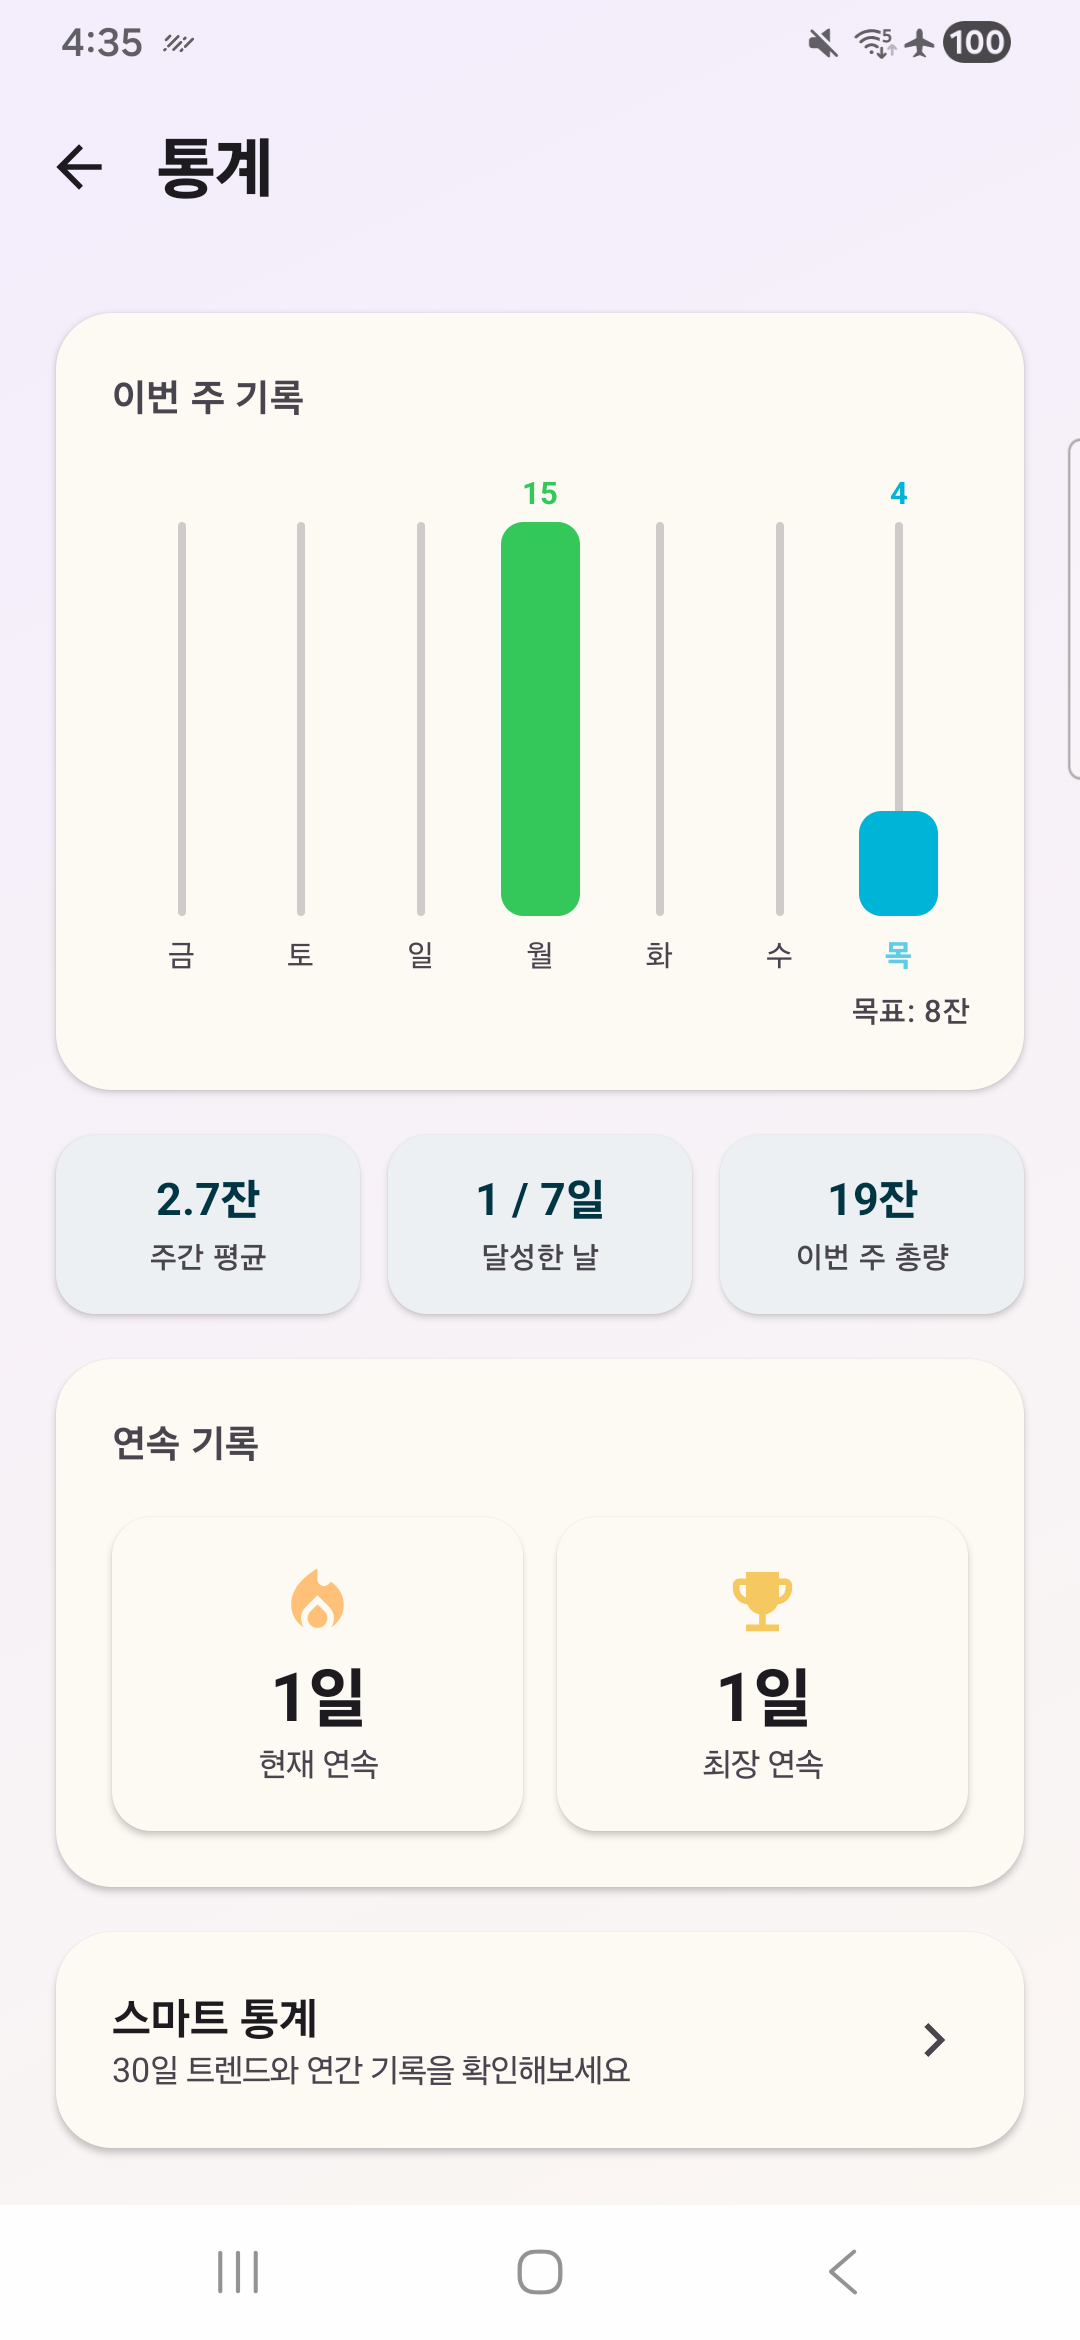
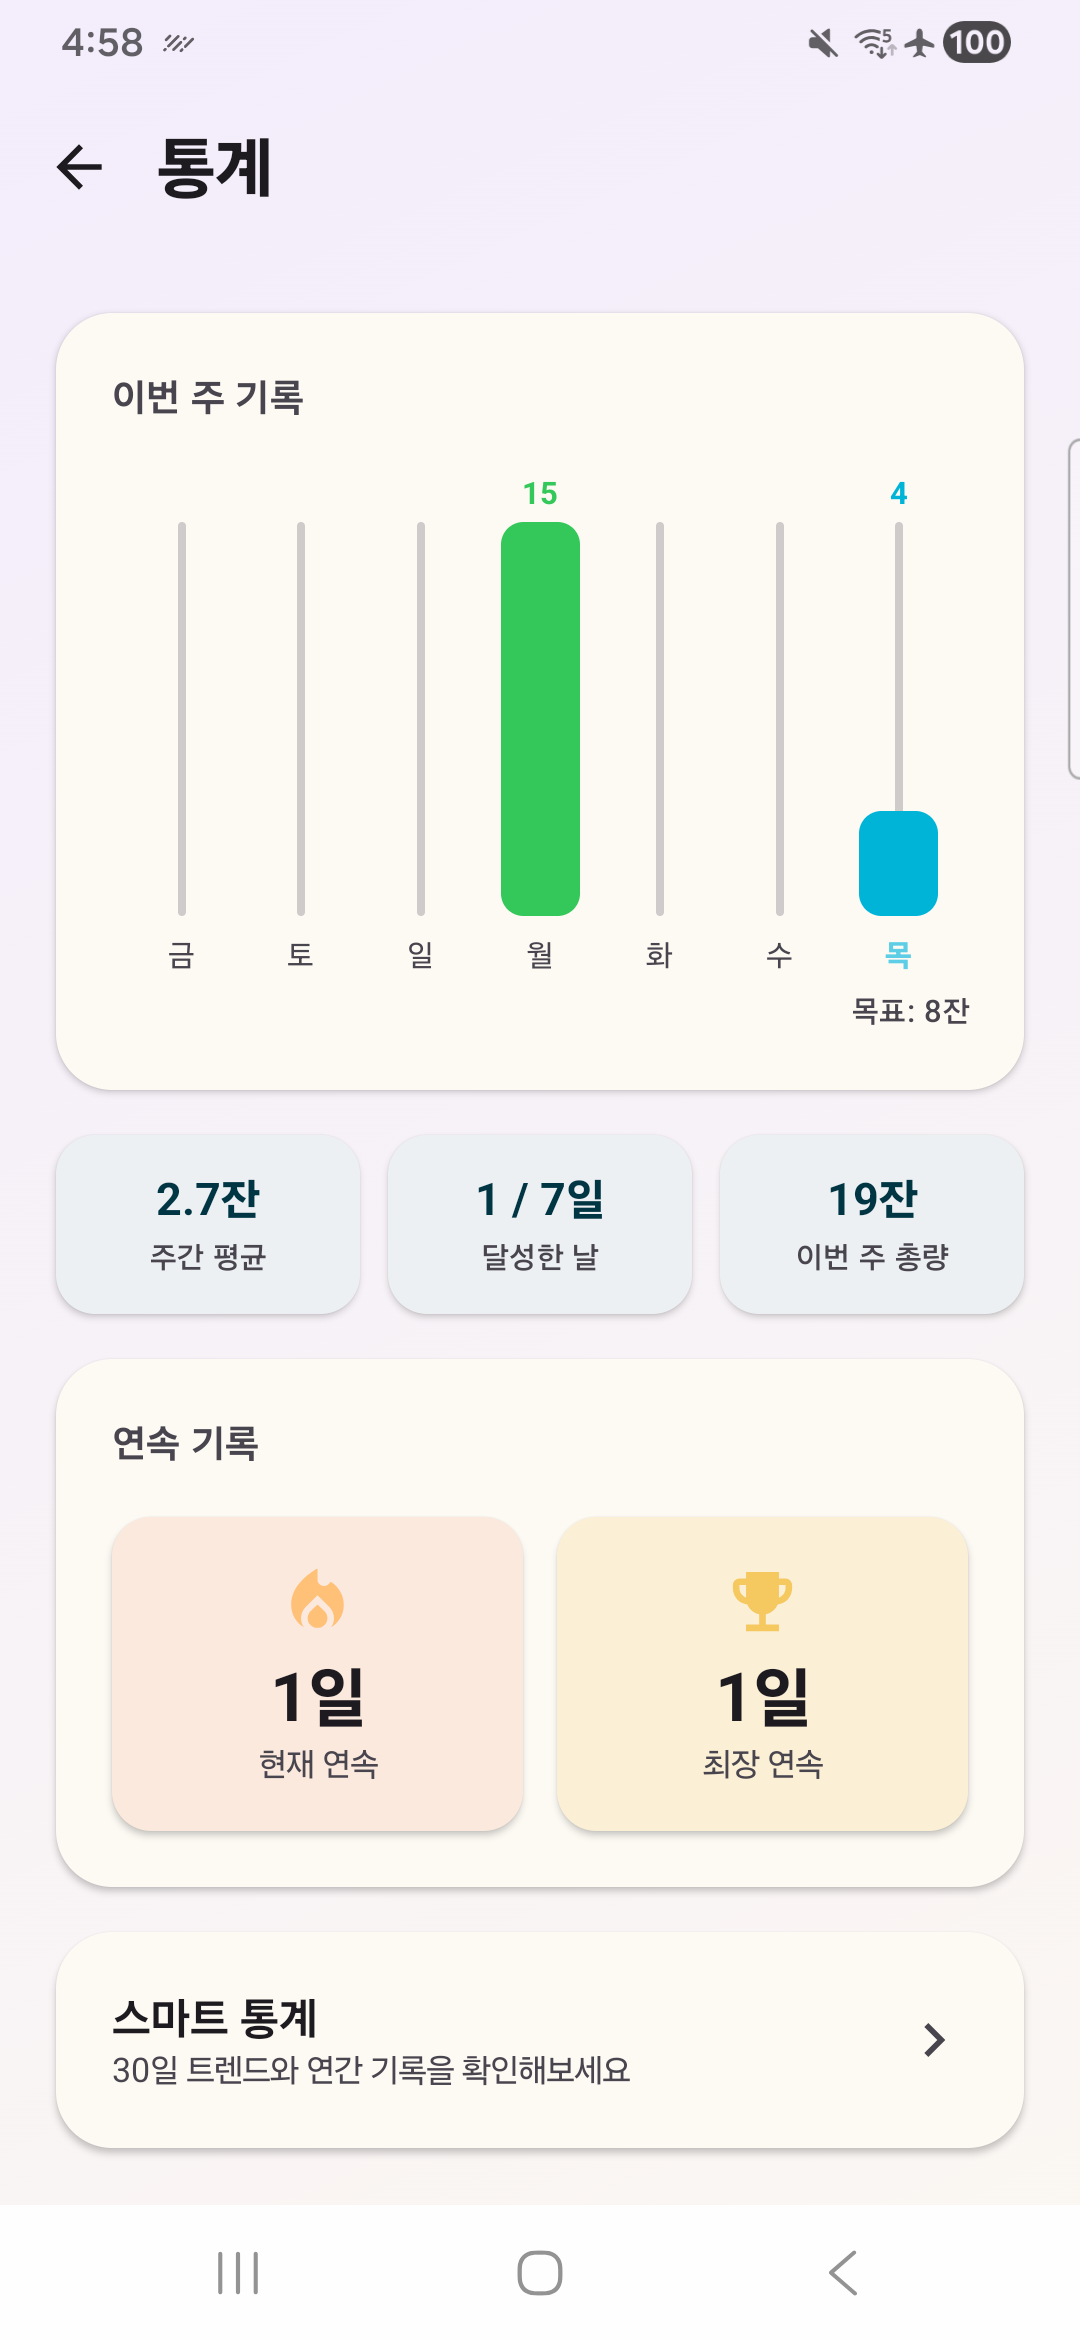
[fix] 통계 화면 연속 기록 카드 라이트모드 저대비 수정 (v0.31.50)
라이트모드에서도 바깥 카드와 안쪽 박스가 동일한 크림색이라
경계가 흐리던 문제. 현재 연속(살구빛)/최장 연속(골드빛)으로
카드별 배경을 분리, 다크모드 골드 보더 방식은 그대로 유지.
04_stats.png 스토어 스크린샷도 재촬영 반영

Changed region(s): [[0.4889, 0.6239, 0.9167, 0.7799], [0.0917, 0.0, 0.1222, 0.0312]]

diff --git a/app/src/main/java/com/watering/app/features/stats/StatsScreen.kt b/app/src/main/java/com/watering/app/features/stats/StatsScreen.kt
@@ -126,6 +126,7 @@ fun StatsScreen(
                             tint = MaterialTheme.colorScheme.tertiary,
                             label = stringResource(R.string.label_current_streak),
                             value = stringResource(R.string.streak_days_value, uiState.currentStreak),
+                            lightBackground = Color(0xFFFBE9DD),
                             modifier = Modifier.weight(1f)
                         )
                         StreakStatCard(
@@ -133,6 +134,7 @@ fun StatsScreen(
                             tint = MaterialTheme.colorScheme.secondary,
                             label = stringResource(R.string.label_longest_streak),
                             value = stringResource(R.string.streak_days_value, uiState.longestStreak),
+                            lightBackground = Color(0xFFFBF0D6),
                             modifier = Modifier.weight(1f)
                         )
                     }
@@ -264,14 +266,24 @@ private fun SummaryChip(label: String, value: String, modifier: Modifier = Modif
     }
 }
 
-// 다크모드에서 바깥 SectionCard와 배경색(AppCardBackgroundColor)이 동일해 경계가 안 보이던 문제 —
-// 배경은 그대로 두고 앱 정보 배너와 같은 골드 보더(AppInfoBannerBorderColor, 라이트모드는 투명이라
-// 자동으로 무보더 유지)로 구분(2026-07-09, 웹 목업 6안 비교 후 "골드 보더" 채택)
+// 바깥 SectionCard와 배경색(AppCardBackgroundColor)이 동일해 경계가 안 보이던 문제(2026-07-09).
+// 다크모드는 배경 유지 + 앱 정보 배너와 같은 골드 보더(AppInfoBannerBorderColor)로 구분(웹 목업
+// 6안 중 "골드 보더" 채택). 라이트모드는 보더 대신 카드별로 다른 파스텔 배경(lightBackground)을
+// 써서 구분 — 현재 연속(살구빛)/최장 연속(골드빛)이 서로도 구분되도록(웹 목업 6안 중 "아이콘
+// 컬러 매칭" 채택)
 @Composable
-private fun StreakStatCard(icon: ImageVector, tint: Color, label: String, value: String, modifier: Modifier = Modifier) {
+private fun StreakStatCard(
+    icon: ImageVector,
+    tint: Color,
+    label: String,
+    value: String,
+    lightBackground: Color,
+    modifier: Modifier = Modifier
+) {
+    val isDark = isSystemInDarkTheme()
     Surface(
         shape = RoundedCornerShape(14.dp),
-        color = AppCardBackgroundColor,
+        color = if (isDark) AppCardBackgroundColor else lightBackground,
         border = BorderStroke(1.5.dp, AppInfoBannerBorderColor),
         shadowElevation = 1.5.dp,
         modifier = modifier

diff --git a/docs/개발보고서.md b/docs/개발보고서.md
@@ -1,11 +1,24 @@
 # 워터링 Android 개발보고서
 
-> 마지막 업데이트: 2026-07-09 (스토어 스크린샷 5장 실기기 최신 디자인으로 재촬영 + 스토어 설명
-> 줄바꿈 정리). 출시 직전 체크리스트 릴리즈 서명·개발자 계정 인증 완료, Data Safety 설문/콘텐츠
-> 등급만 남음(Play Console 직접 진행). 스토어 등록 관련 준비는 스크린샷·설명 전부 최신화 완료,
-> 남은 건 피처 그래픽(디자이너 작업 보류)뿐.
+> 마지막 업데이트: 2026-07-09 (v0.31.50, 통계 화면 연속 기록 카드 라이트모드 저대비 수정 + 스토어
+> 스크린샷/설명 최신화). 출시 직전 체크리스트 릴리즈 서명·개발자 계정 인증 완료, Data Safety
+> 설문/콘텐츠 등급만 남음(Play Console 직접 진행).
 
 ---
+
+## v0.31.50 — 통계 화면 연속 기록 카드 라이트모드 저대비 수정
+
+- **배경**: v0.31.47에서 다크모드만 고쳤던 "연속 기록" 카드 저대비 문제가 라이트모드에도 동일하게
+  있었음 — 사용자가 웹으로 스토어 등록정보를 확인하던 중 라이트모드 통계 화면에서 재발견.
+  `StreakStatCard`와 바깥 `SectionCard`가 라이트모드에서도 동일한 `AppCardBackgroundColor`
+  (#FDFAF4, 크림)를 써서 경계가 그림자로만 겨우 구분되던 상태
+- **구현**: 웹 목업으로 6가지 후보(화이트 카드/아쿠아 보더/라벤더 틴트/쿨그레이 카드/라벤더
+  보더/아이콘 컬러 매칭) 제시해 사용자가 "아이콘 컬러 매칭" 선택. `StreakStatCard`에
+  `lightBackground` 파라미터 추가 — 다크모드는 기존 골드 보더 방식 유지, 라이트모드는 현재
+  연속(살구빛 `#FBE9DD`)/최장 연속(골드빛 `#FBF0D6`)으로 카드마다 다른 배경을 적용해 서로도
+  구분되도록 함
+- **검증**: 실기기 라이트모드에서 두 카드가 뚜렷하게 구분됨을 스크린샷으로 확인. `./gradlew
+  installDebug` 빌드·설치 성공. 스토어 스크린샷 `04_stats.png`도 수정된 화면으로 재촬영해 반영
 
 ## 2026-07-09 (버전 번호 없음) — 스토어 등록 자산 최신화
 
@@ -2685,3 +2698,4 @@ SettingsScreen "구글로 로그인" 클릭
 | 2026-07-09 | [fix] v0.31.48 — 설정 화면 섹션 헤더 다크모드 저대비 수정 (SettingsAccentColor 골드로 분기) |
 | 2026-07-09 | [fix] v0.31.49 — 스마트 통계 연간 히트맵 다크모드 미달성 칸 저대비 수정 (잔여 항목 3번 해결) |
 | 2026-07-09 | [docs] 스토어 설명 어색한 줄바꿈 정리 + 스크린샷 5장 실기기 최신 디자인으로 재촬영 |
+| 2026-07-09 | [fix] v0.31.50 — 통계 화면 연속 기록 카드 라이트모드 저대비 수정, 04_stats.png 재촬영 |
